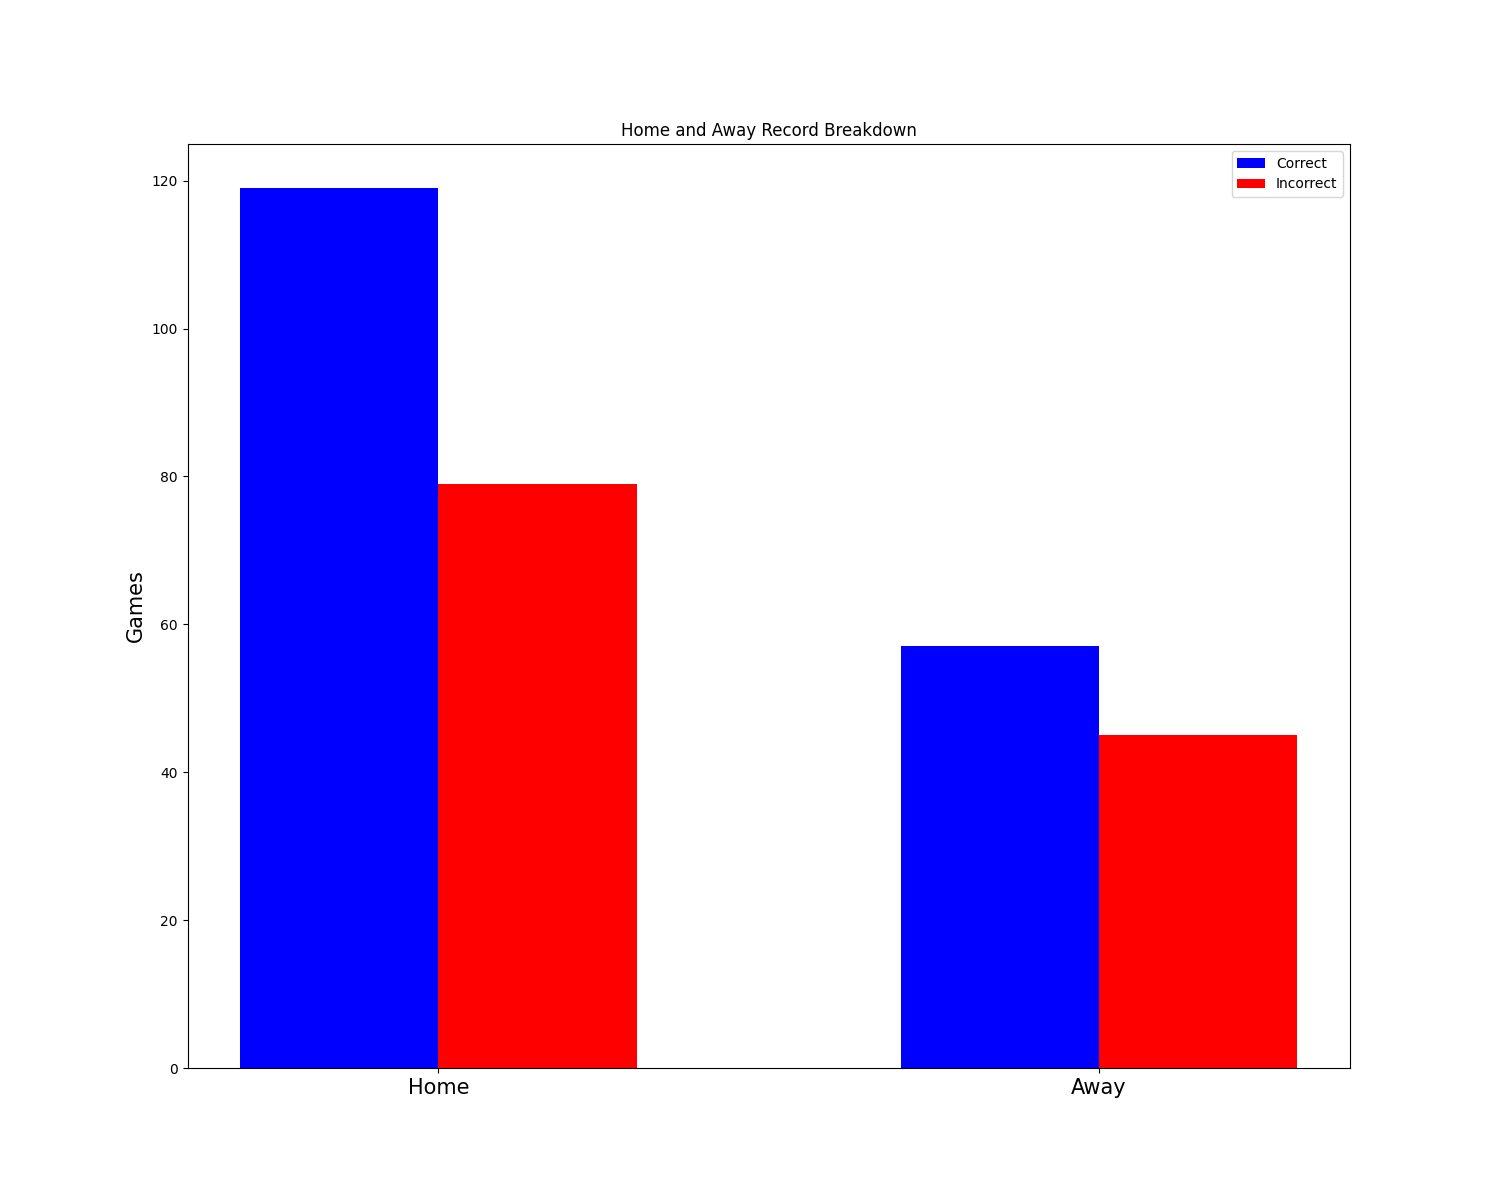
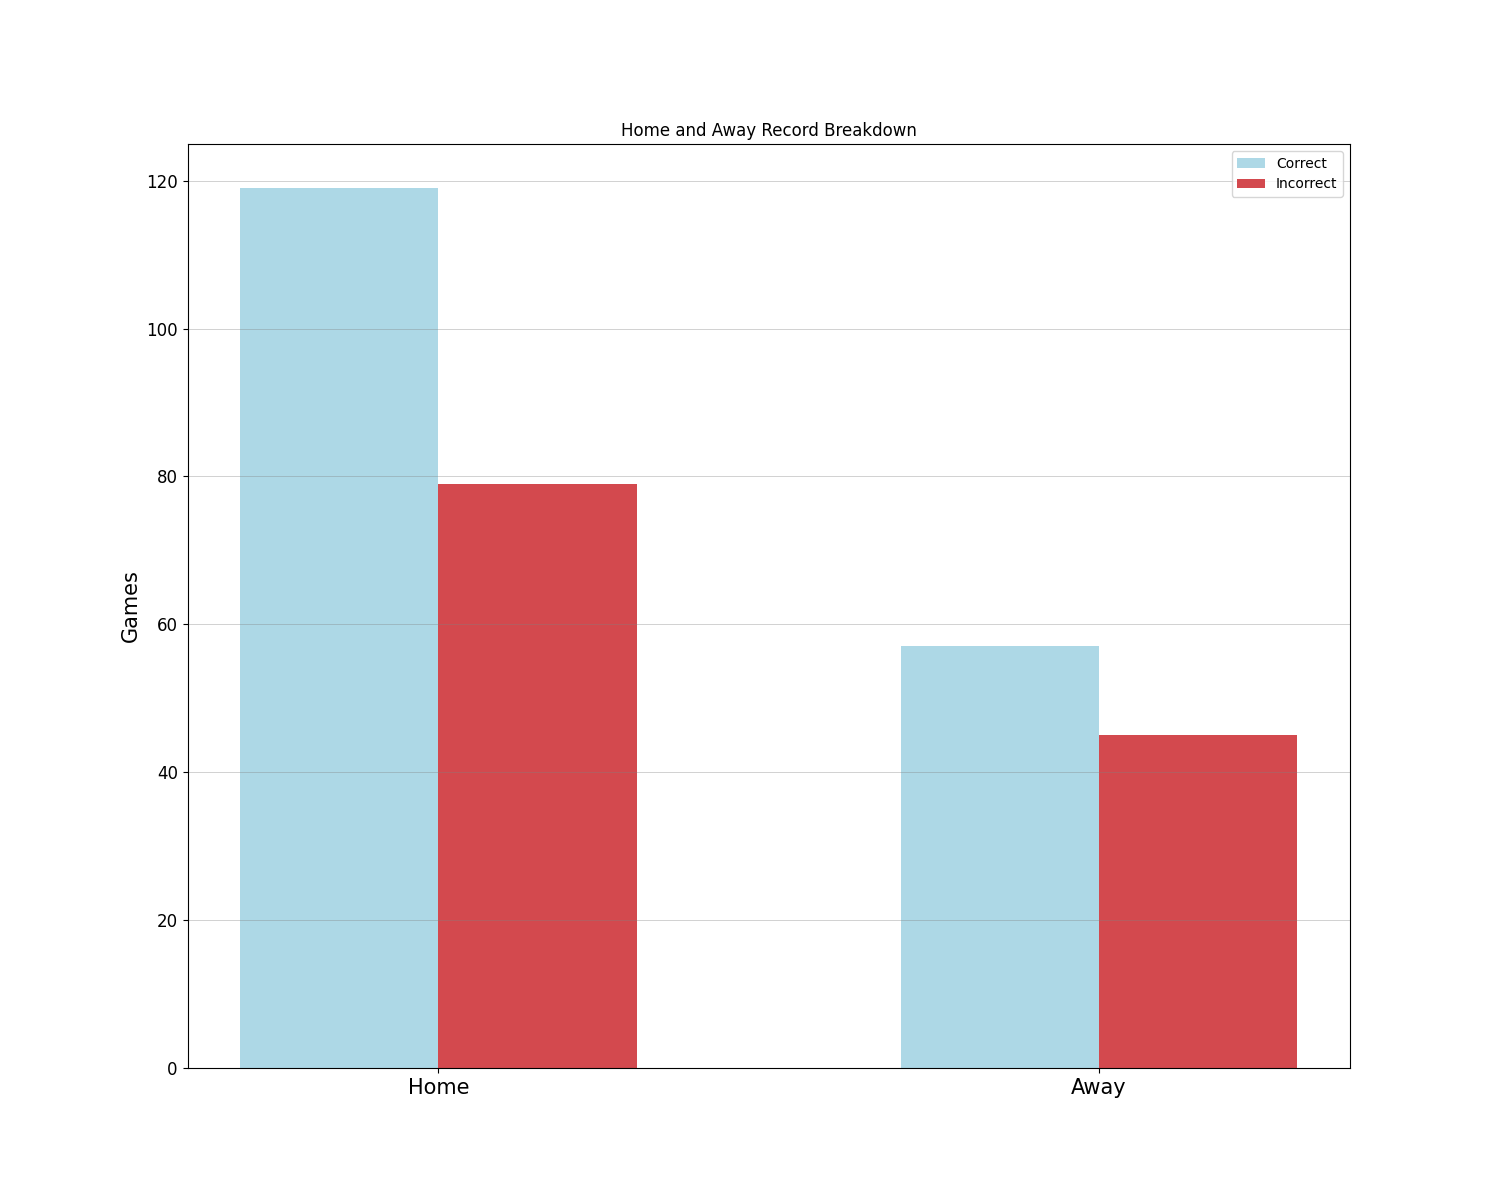
win-loss visual updates

diff --git a/cfb.py b/cfb.py
@@ -47,11 +47,12 @@ def run(file):
 
         # Creating and plotting values
         plt.figure(figsize=(15,12))
-        plt.bar(bar1, home_values, width=barWidth, color='b', label='Home')
-        plt.bar(bar2, away_values, width=barWidth, color='r', label='Away')
+        plt.grid(axis='y', color='gray', linewidth=0.5, alpha=0.5)
+        plt.bar(bar1, home_values, width=barWidth, color='#ADD8E6', label='Home')
+        plt.bar(bar2, away_values, width=barWidth, color='#D3494E', label='Away')
         plt.title("Home and Away Record Breakdown")
         plt.ylabel("Games", fontsize=15)
-        plt.yticks(fontsize=10)
+        plt.yticks(fontsize=12)
         plt.xticks([r + barWidth/2 for r in range(len(labels))], labels, fontsize=15)
         plt.legend(["Correct", "Incorrect"])
         plt.savefig("CFB\\Outputs\\home_away_wins_and_losses_plot.png")
